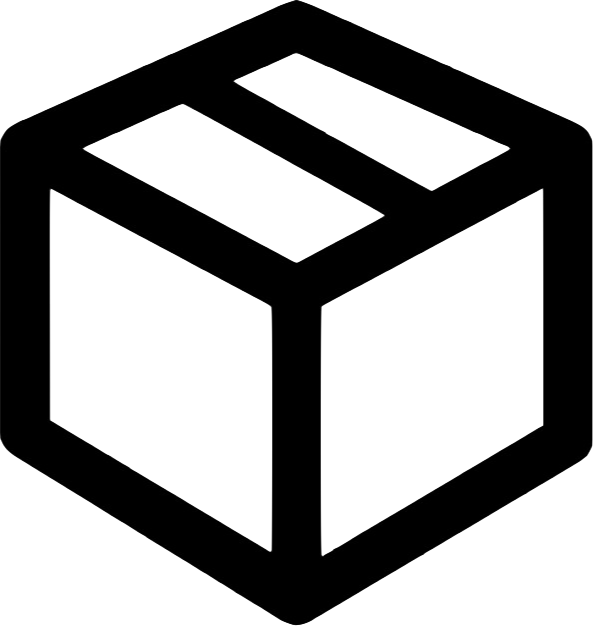
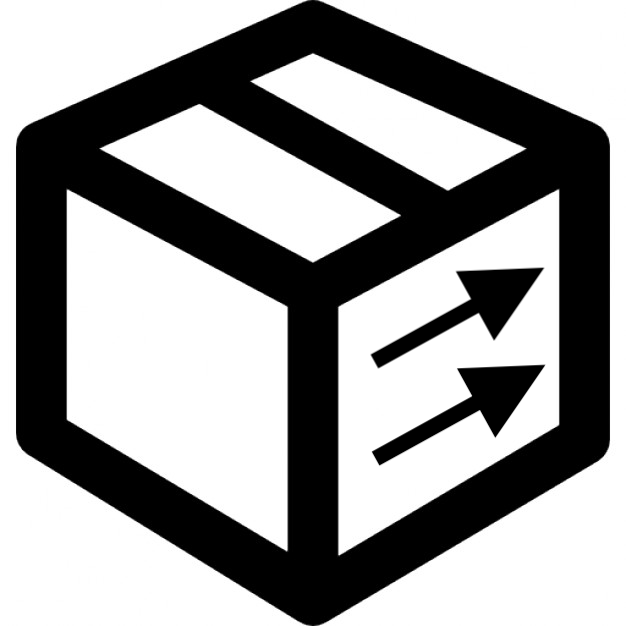
Version 3.0!

diff --git a/app/components/MainComponent.js b/app/components/MainComponent.js
@@ -30,6 +30,21 @@ export default MainComponent = (props) => {
             }
                   <View style={styles.contentContainer} onLayout={() => {LayoutAnimation.easeInEaseOut();}}>
 
+                    {(session.isLesnaya && !session.roles.includes('tenant')) &&
+                    <TouchableOpacity onPress={() => { props.openTickets('openTickets') }}>
+                        <View style={styles.Button}>
+                            <Image resizeMode='contain' source={Images.list} style={styles.buttonImage}/>
+                            <Text style={styles.buttonLabel}>Активные</Text>
+                        </View>
+                    </TouchableOpacity>}
+
+                    {(session.isLesnaya && !session.roles.includes('tenant')) &&
+                    <TouchableOpacity onPress={() => { props.openTickets('onCreateTickets') }}>
+                        <View style={styles.Button}>
+                            <Image resizeMode='contain' source={Images.sign} style={styles.buttonImage}/>
+                            <Text style={styles.buttonLabel}>Согласовать</Text>
+                        </View>
+                    </TouchableOpacity>}
 
                     <TouchableOpacity onPress={() => { props.addVisitTicket() }}>
                         <View style={styles.Button}>
@@ -54,7 +69,7 @@ export default MainComponent = (props) => {
 
                     <TouchableOpacity onPress={() => { props.addGoodsTicket('GOODS_OUT') }}>
                           <View style={styles.Button}>
-                              <Image resizeMode='contain' source={Images.boxIn} style={styles.buttonImage} />
+                              <Image resizeMode='contain' source={Images.boxOut} style={styles.buttonImage} />
                               <Text style={styles.buttonLabel}>Вынос имущества</Text>
                           </View>
                     </TouchableOpacity>
@@ -66,16 +81,8 @@ export default MainComponent = (props) => {
                         </View>
                     </TouchableOpacity>
 
-                    {(session.isLesnaya && !session.roles.includes('tenant')) &&
-                    <TouchableOpacity onPress={() => { props.openTickets('onCreateTickets') }}>
-                        <View style={styles.Button}>
-                            <Image resizeMode='contain' source={Images.list} style={styles.buttonImage}/>
-                            <Text style={styles.buttonLabel}>Согласовать</Text>
-                        </View>
-                    </TouchableOpacity>}
-
-                    {!(session.isLesnaya && session.roles.includes('tenant')) &&
-                    <TouchableOpacity onPress={() => { props.openTickets(session.isLesnaya ? 'openTickets' : 'regularTickets') }}>
+                    {!(session.isLesnaya && !session.roles.includes('tenant')) &&
+                    <TouchableOpacity onPress={() => { props.openTickets('regularTickets') }}>
                         <View style={styles.Button}>
                             <Image resizeMode='contain' source={Images.list} style={styles.buttonImage}/>
                             <Text style={styles.buttonLabel}>Наши заявки</Text>

diff --git a/app/middleware/api/index.js b/app/middleware/api/index.js
@@ -54,9 +54,10 @@ const fetchTicketsForCheckpoint = userId => instance.get(`/vnext/v1/requests?ord
 const fetchTicketsForSecurityChief = userId => instance.get(`/vNext/v1/requests?filters=RequestsForBolshevikSecurityChief,CurrentDayRequests&pageSize=100&pageNumber=1&orderBy=Number*-1`)
 const fetchParkingsForCars = () => instance.get(`vNext/v1/parkings`).catch(onError)
 //const fetchParkingsForGoods = () => instance.get(`/vNext/v1/parkings`).catch(onError)
-const fetchAllTickets = companyId => instance.get('vNext/v1/requests?orderBy=number+desc,&amp;filters=RequestsForTenant,NotClosedRequests&pageSize=100&pageNumber=1', conf).catch(onError)
-const fetchOnCreateTickets = companyId => instance.get('vNext/v1/requests?orderBy=number+desc,&amp;filters=RequestsForUserDepartment,OnCreateRequests&pageSize=100&pageNumber=1', conf).catch(onError)
-const fetchOpenTickets = companyId => instance.get('vNext/v1/requests?orderBy=number+desc,&amp;filters=RequestsForUserDepartment,NotClosedRequests&pageSize=100&pageNumber=1', conf).catch(onError)
+const fetchAllTickets = companyId => instance.get('vNext/v1/requests?orderBy=number+desc,&filters=RequestsForTenant,NotClosedRequests&pageSize=100&pageNumber=1', conf).catch(onError)
+const fetchOnCreateTickets = companyId => instance.get('vNext/v1/requests?orderBy=number+desc,&filters=RequestsForUserDepartment,OnCreateRequests&pageSize=100&pageNumber=1', conf).catch(onError)
+const fetchOpenTicketsRestricted = companyId => instance.get('vNext/v1/requests?orderBy=number+desc,&filters=RequestsForUserDepartment,NotClosedRequests&pageSize=100&pageNumber=1', conf).catch(onError)
+const fetchOpenTickets = companyId => instance.get('vNext/v1/requests?orderBy=number+desc,&filters=NotClosedRequests&pageSize=100&pageNumber=1', conf).catch(onError)
 
 
 const updateTicketStatus = (ticket) => instance.patch(`/vnext/v1/requests/${ticket.id}`, {status: ticket.status})
@@ -65,4 +66,4 @@ const addTicket = (ticket) => instance.post('/vNext/v1/requests', ticket).catch(
 
 export default { login, authorize, setAuthHeader,
                  fetchParkingsForCars, /*fetchParkingsForGoods,*/ fetchAllTickets, updateTicketStatus,
-                 addTicket, addFile, fetchTicketsForCheckpoint, fetchTicketsForSecurityChief, fetchOpenTickets, fetchOnCreateTickets }
+                 addTicket, addFile, fetchTicketsForCheckpoint, fetchTicketsForSecurityChief, fetchOpenTickets, fetchOpenTicketsRestricted, fetchOnCreateTickets }

diff --git a/app/containers/TicketScreen.js b/app/containers/TicketScreen.js
@@ -4,14 +4,15 @@ import { View,
   NativeModules } from 'react-native'
 import { Colors } from '../theme'
 import Ticket from '../components/Ticket'
+import * as selectors from '../middleware/redux/selectors'
+import { connect } from 'react-redux'
+
 const fieldsProperties = [
 {
   status:             { name: 'Статус', type: 'list' },
   type:               { name: 'Вид', type: 'list' },
-  khimkiRequestType:  { name: 'Тип', type: 'list' },
   visitDate:          { name: 'Дата', type: 'date' },
-  expirationDate:     { name: 'Действует до', type: 'date' },
-  khimkiTime:         { name: 'Время', type: 'list' }
+  expirationDate:     { name: 'Действует до', type: 'date' }
 }, {
   visitorFullName:    { name: 'ФИО посетителя', type: 'text' },
   khimkiEmailGuest:   { name: 'E-mail посетителя', type: 'text' },
@@ -30,7 +31,7 @@ const fieldsProperties = [
   materialValuesData: { name: 'Данные материальных ценностей', type: 'text' },
   khimkiAccessPremises:{ name: 'Маршрут перемещения', type: 'text' }
 }, {
-  whereHappened:      { name: 'Место', type: 'text' },
+  whereHappened:      { name: 'Где произошло', type: 'text' },
   whatHappened:       { name: 'Что сделать', type: 'text' }
 }, {
   note:               { name: 'Примечание', type: 'text' },
@@ -43,6 +44,13 @@ const { UIManager } = NativeModules;
 UIManager.setLayoutAnimationEnabledExperimental &&
   UIManager.setLayoutAnimationEnabledExperimental(true);
 
+
+@connect(
+    store => ({
+        session: selectors.getSession(store)
+    })
+)
+
 export default class TicketScreen extends Component {
     static navigationOptions = ({navigation}) => {
         const { ticket } = navigation.state.params
@@ -54,6 +62,13 @@ export default class TicketScreen extends Component {
 
     componentWillMount(){
       const { ticket } = this.props.navigation.state.params
+      if(this.props.session.isLesnaya &&
+         (this.props.session.roles.includes('restrictedAdministratorBC') ||
+         this.props.session.roles.includes('administratorBC')) &&
+         this.props.session.roles.includes('makingAgreementBC'))
+      {
+           fieldsProperties[0]['company'] = { name: 'Арендатор', type: 'list' }
+      }
       this.setState({ticket: ticket})
     }
 

diff --git a/app/containers/ServiceScreen.js b/app/containers/ServiceScreen.js
@@ -79,7 +79,6 @@ export default class ServiceScreen extends Component {
         }
 
         var ticket = {
-            visitorFullName: '',
             actualCreationDate: new Date(),
             author: employeeId,
             status: NEW_TICKET_STATUS_ID,
@@ -91,8 +90,9 @@ export default class ServiceScreen extends Component {
         if(session.isLesnaya){
           ticket.department = session.department
           ticket.asignee = '4051732437000' //Альфаком
-          ticket.manager = ticket.department == '3959751378000' ? '3959752547000' : '3959752571000' //если Лесная, то Зиновьев
+          //ticket.manager = ticket.department == '3959751378000' ? '3959752547000' : '3959752571000' //если Лесная, то Зиновьев
           ticket.observersText = ticket.department == '3959751378000' ? '3959752576000' : null //если Лесная, то Курандикова
+          ticket.status = ticket.department == '3959751378000' ? ACCEPTED_TICKET_STATUS_ID : ticket.status
         }
 
         this.setState({ticket: ticket,
@@ -130,9 +130,11 @@ export default class ServiceScreen extends Component {
         const { session } = this.props
 
         if(session.isLesnaya){
-          ticket.manager = ticket.department == '3959751378000' ? '3959752547000' : '3959752571000' //если Лесная, то Зиновьев
+          //ticket.manager = ticket.department == '3959751378000' ? '3959752547000' : '3959752571000' //если Лесная, то Зиновьев
           ticket.observersText = ticket.department == '3959751378000' ? '3959752576000' : null //если Лесная, то Курандикова
         }
+
+        console.log(ticket)
 
         var fieldsHighlights = {
           whatHappened: !ticket.whatHappened

diff --git a/app/containers/TicketsScreen.js b/app/containers/TicketsScreen.js
@@ -39,6 +39,7 @@ const status2colors = {
     '4285215000': '#fd9419',//Создана
     '2804833189000': '#d12424',//Повторная
     '4285216000': '#808080',//Закрыта
+    '2237210852000': '#00A040',//выполняется
 }
 const goodsTypes = {
   '4022223559000': 'Перемещение',
@@ -187,6 +188,9 @@ export default class TicketsScreen extends Component {
       if(!item.visitorFullName && item.carNumber)
         name = item.carNumber;
 
+      if(item.type.id == '3724900074000')
+        name = item.whatHappened;
+
       try {
       try{
       var type = item.type && item.type.name + ' ' + item.visitDate.substring(0, 10)
@@ -197,7 +201,7 @@ export default class TicketsScreen extends Component {
       <TouchableHighlight onPress={() => {navigation.navigate('Ticket', {ticket: item, updateItem: this.updateItem})}} underlayColor={Colors.accentColor} style={{borderRadius: 10}}>
       <View style={{flexDirection: 'row', backgroundColor: 'white', borderRadius: 10}}>
           <View style={{width: 10, backgroundColor: status2colors[item.status && item.status.id], borderBottomLeftRadius: 10, borderTopLeftRadius: 10}}></View>
-          <View style={{flexDirection: 'column', marginLeft: 5}}>
+          <View style={{flexDirection: 'column', marginLeft: 5, width: '90%'}}>
 
               <Text style={styles.ticketNumber}>{header}</Text>
               <Text style={styles.visitorName}>{name}</Text>

diff --git a/app/components/VisitorTicketEditor.js b/app/components/VisitorTicketEditor.js
@@ -30,11 +30,12 @@ export default class VisitorTicketEditor extends Component {
        selectedValue: null,
        //selectedParking: this.props.initialParking,
        fieldsVisible: {
-         parkingPlace: true
+         parkingPlace: true,
+         expirationDate: false,
        },
-       'expirationDate': false,
+       expirationDate: null,
        //'additionalFieldsVisible': false,
-       'carFieldsVisible': this.props.ticketType == 'CAR',
+       carFieldsVisible: this.props.ticketType == 'CAR',
        longTerm: false,
      }
   }
@@ -99,7 +100,7 @@ export default class VisitorTicketEditor extends Component {
                       {this.state.longTerm &&
                       <DatePickerComponent
                         isHighlighted={this.props.fieldsHighlights.expirationDate}
-                        date={this.props.ticket.visitDate ? this.props.ticket.visitDate : new Date()}
+                        date={this.props.ticket.expirationDate ? this.props.ticket.expirationDate : new Date()}
                         onUpdate={(date) => {this.updateField(date, 'expirationDate')}}
                         label="Действует до *"
                         placeholder="Выберите дату"

diff --git a/app/middleware/redux/saga/Tickets.js b/app/middleware/redux/saga/Tickets.js
@@ -16,7 +16,11 @@ function * fetchTicketsSaga() {
 
         if(session.isLesnaya){
           //onCreateTicketsResponse = yield call(api.fetchOnCreateTickets, session.companyId)
-          openTicketsResponse = yield call(api.fetchOpenTickets, session.companyId)
+          if(session.roles.includes('restrictedAdministratorBC')){
+            openTicketsResponse = yield call(api.fetchOpenTicketsRestricted, session.companyId)
+          }else{
+            openTicketsResponse = yield call(api.fetchOpenTickets, session.companyId)
+          }
         }else{
           if(session.roles.includes('mobileCheckpoint')){
             regularTicketsResponse = yield call(api.fetchTicketsForCheckpoint, session.companyId)
@@ -43,6 +47,7 @@ function * fetchTicketsSaga() {
             } else { return false }
           })
         }
+        console.log(tickets)
         yield put(fetched(tickets))
         yield put(fetched(tickets))
     }

diff --git a/app/components/ServiceTicketEditor.js b/app/components/ServiceTicketEditor.js
@@ -49,7 +49,7 @@ export default class ServiceScreen extends Component {
                     label="Здание"
                     removeEmptyField={true}
                     items={this.props.lesnayaDepartments}
-                    onUpdate={(text) => {this.updateField(text, 'department')}}/>
+                    onUpdate={(text) => {this.props.updateField(text, 'department')}}/>
                 </View>}
 
                 <View>

diff --git a/app/theme/Images.js b/app/theme/Images.js
@@ -5,7 +5,9 @@ const images = {
   list: require('./images/list.png'),
   wrench: require('./images/wrench.png'),
   boxIn: require('./images/boxIn.png'),
-  card: require('./images/card.png')
+  boxOut: require('./images/boxOut.png'),
+  card: require('./images/card.png'),
+  sign: require('./images/sign.png')
 }
 
 export default images;
